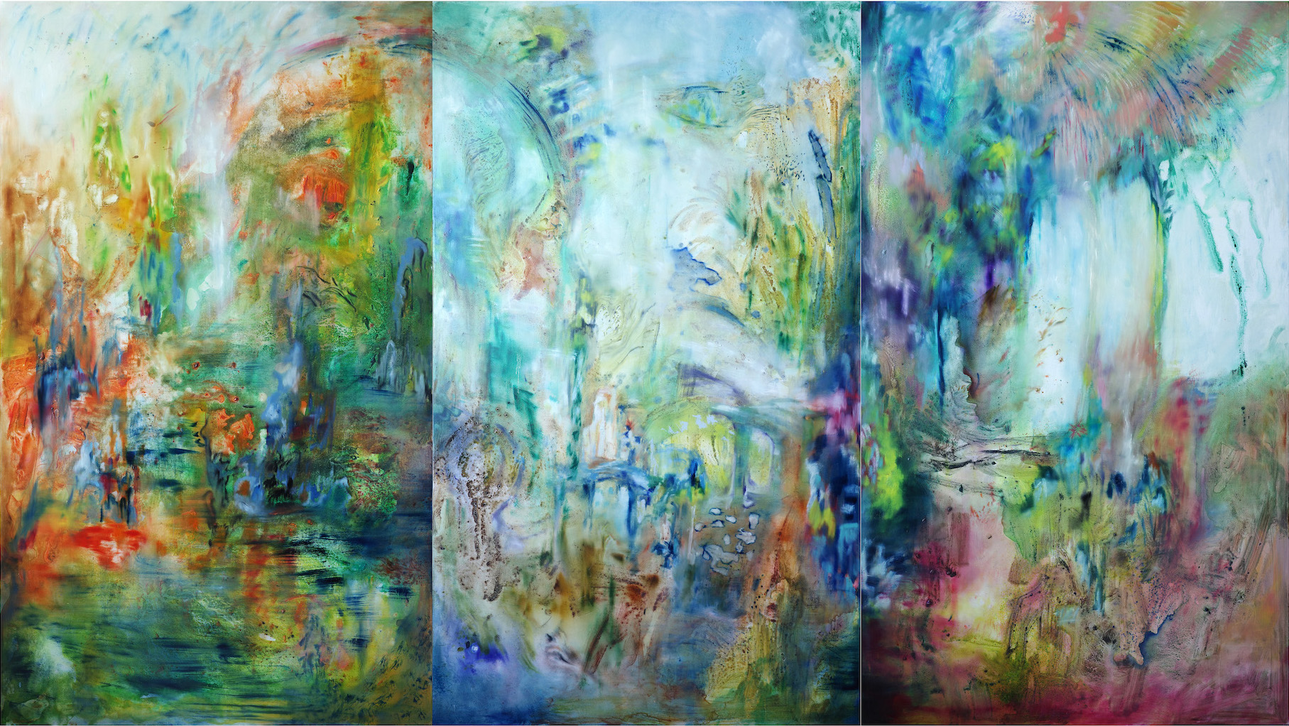
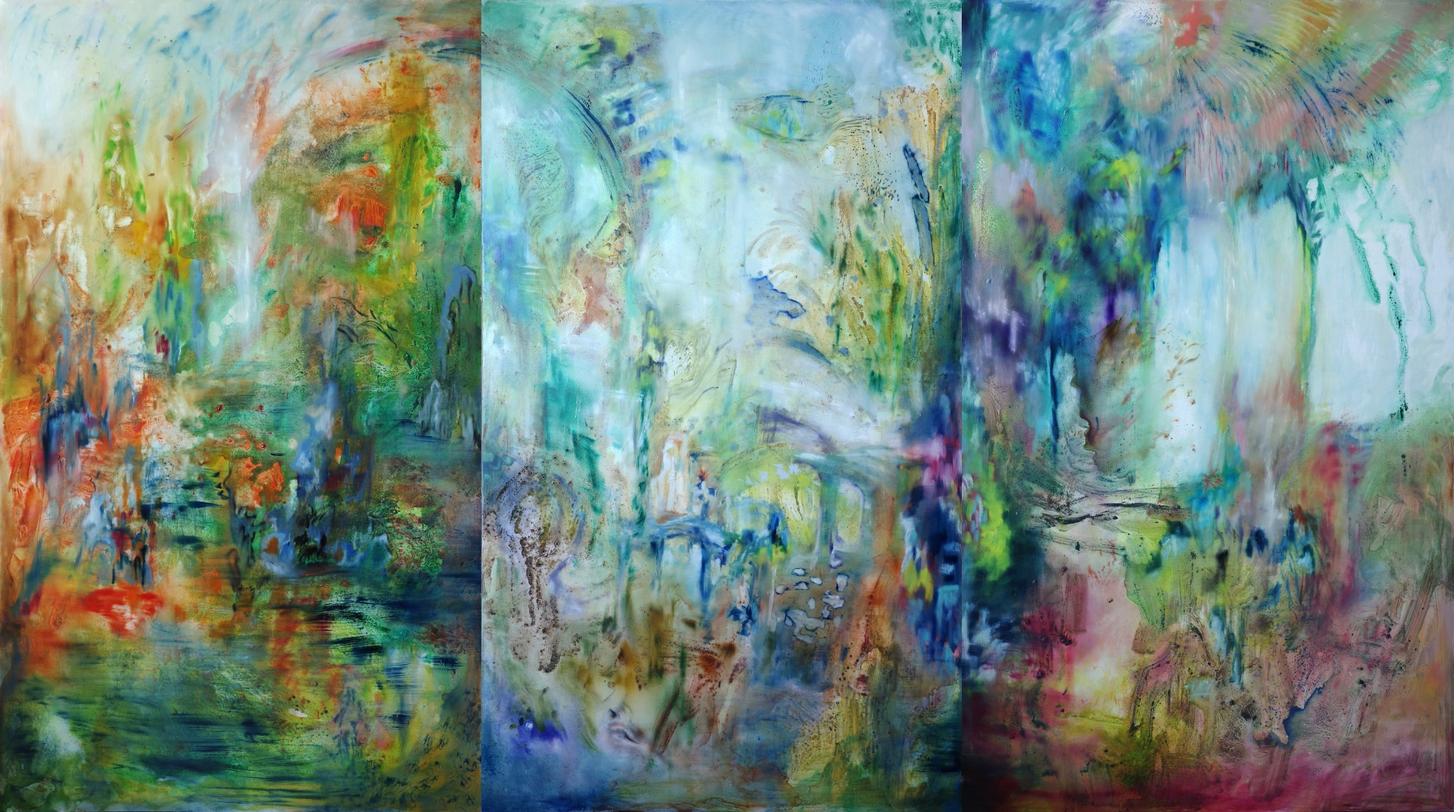
Replace the triptych photograph with the newly supplied image

diff --git a/work.html b/work.html
@@ -1,1 +1,1 @@
-<!doctype html><html lang="en"><head><meta charset="utf-8"><meta name="viewport" content="width=device-width,initial-scale=1"><title data-en="Work — Junhan Shen" data-zh="作品 — 沈隽涵">Work — Junhan Shen</title><link rel="stylesheet" href="style.css?v=20261024-mobile-menu-fix"></head><body><header class="site-header"><a class="name" href="index.html">JUNHAN SHEN</a><button class="menu" type="button" aria-label="Toggle menu" data-label-en="Toggle menu" data-label-zh="切换菜单" data-en="Menu" data-zh="菜单" aria-expanded="false" aria-controls="main-navigation">Menu</button><nav id="main-navigation" aria-label="Main navigation" data-label-en="Main navigation" data-label-zh="主导航"><div class="nav-exhibitions"><button type="button" class="nav-exhibitions-toggle" aria-expanded="false" aria-controls="exhibition-menu" data-en="Exhibitions" data-zh="展览">Exhibitions</button><div class="exhibition-menu" id="exhibition-menu" hidden><a href="untranslated-things.html" data-en="Untranslated Things" data-zh="Untranslated Things（未译之物）">Untranslated Things</a><a href="circuitry.html">Circuitry</a></div></div><a href="biography.html" data-en="Bio &amp; CV" data-zh="简介与简历">Bio &amp; CV</a><a href="contact.html" data-en="Contact" data-zh="联系">Contact</a><span class="lang"><button type="button" data-lang="en">EN</button><i>/</i><button type="button" data-lang="zh">中文</button></span></nav></header><main class="page works-page"><h1 class="page-title" data-en="Works" data-zh="作品">Works</h1><div class="work-grid"><figure class="work-card work-wide work-hero" data-index="0" data-title="A Print In The Sand Indicates The Tiger’s Passage" data-year="2026" data-medium="Acrylic, oil, and pigment powder on canvas" data-size="60 × 108 in" data-src="A Print In The Sand Indicates The Tiger’s Passage..jpg" data-title-zh="沙滩上的印记表明老虎的行进路线" data-medium-zh="布面丙烯、油彩及色粉"><img src="A Print In The Sand Indicates The Tiger’s Passage..jpg" alt="A Print In The Sand Indicates The Tiger’s Passage" width="2000" height="1125" loading="lazy"></figure><figure class="work-card work-portrait" data-index="5" data-title="The Egg, The Bird" data-year="2026" data-medium="Acrylic, oil, and pigment powder on canvas" data-size="60 × 48 in" data-src="The egg, the bird.jpg" data-title-zh="蛋，鸟" data-medium-zh="布面丙烯、油彩及色粉"><img src="The egg, the bird.jpg" alt="The Egg, The Bird" width="1354" height="1677" loading="lazy"></figure><figure class="work-card work-landscape" data-index="1" data-title="Into Thin Air" data-year="2026" data-medium="Acrylic, oil, and color powder on canvas" data-size="60 × 48 in" data-src="Into Thin Air.jpg?v=20261011-photo" data-title-zh="消散于无形" data-medium-zh="布面丙烯、油彩及色粉" data-quote="Our revels now are ended. These our actors,&#10;As I foretold you, were all spirits and&#10;Are melted into air, into thin air;&#10;And like the baseless fabric of this vision,&#10;The cloud-capped towers, the gorgeous palaces,&#10;The solemn temples, the great globe itself,&#10;Yea, all which it inherit, shall dissolve,&#10;And, like this insubstantial pageant faded,&#10;Leave not a rack behind. We are such stuff&#10;As dreams are made on, and our little life&#10;Is rounded with a sleep." data-source="William Shakespeare, The Tempest (Prospero, Act IV, scene 1)" data-quote-zh="我们的欢宴结束了。这些演员，&#10;正如我曾告诉你的，原本都是精灵，&#10;如今都已融入空气，消散于无形；&#10;就像这幻象虚幻的根基，&#10;高耸入云的楼台、壮丽的宫殿、&#10;庄严的庙宇，乃至这广大的地球，&#10;以及它所容纳的一切，都将消散；&#10;如同这无形的盛景渐渐消逝，&#10;连一缕云影也不会留下。我们是&#10;梦所织成的材料，而我们短暂的一生，&#10;终在一场长眠中落幕。" data-source-zh="威廉·莎士比亚，《暴风雨》（普洛斯彼罗，第四幕第一场）"><img src="Into Thin Air.jpg?v=20261011-photo" alt="Into Thin Air" width="2048" height="1667" loading="lazy"></figure><figure class="work-card work-landscape" data-index="3" data-title="Memories Below the Waterline" data-year="2026" data-medium="Acrylic, oil, and color powder on canvas" data-size="48 × 60 in" data-src="Memories Below the Waterline.jpg" data-title-zh="水线之下的记忆" data-medium-zh="布面丙烯、油彩及色粉"><img src="Memories Below the Waterline.jpg" alt="Memories Below the Waterline" width="2000" height="1622" loading="lazy"></figure><figure class="work-card work-landscape" data-index="4" data-title="When We Talk About a Wet Summer" data-year="2026" data-medium="Acrylic, oil, and color powder on canvas" data-size="48 × 60 in" data-src="When We Talk About a Wet Summer.jpg" data-title-zh="当我们谈论潮湿的夏天" data-medium-zh="布面丙烯、油彩及色粉"><img src="When We Talk About a Wet Summer.jpg" alt="When We Talk About a Wet Summer" width="2000" height="1659" loading="lazy"></figure><figure class="work-card work-landscape" data-index="2" data-title="Infinite Distance Within Two Meters" data-year="2026" data-medium="Acrylic, oil, and pigment powder on canvas" data-size="60 × 80 in" data-src="Infinite Distance Within Two Meters.jpg" data-title-zh="两米之内的无限距离" data-medium-zh="布面丙烯、油彩及色粉"><img src="Infinite Distance Within Two Meters.jpg" alt="Infinite Distance Within Two Meters" width="1731" height="1288" loading="lazy"></figure><figure class="work-card work-small" data-index="6" data-title="L’Éponge, L’Orange" data-year="2026" data-medium="Mixed media on wood" data-size="14 × 11 in" data-src="L’Éponge, L’Orange.jpg" data-title-zh="海绵，橙子" data-medium-zh="木板综合材料"><img src="L’Éponge, L’Orange.jpg" alt="L’Éponge, L’Orange" width="1500" height="2000" loading="lazy"></figure></div></main><div class="viewer" id="viewer"><button class="viewer-close" aria-label="Close" data-label-en="Close" data-label-zh="关闭">×</button><button class="viewer-prev" aria-label="Previous" data-label-en="Previous" data-label-zh="上一件作品">‹</button><div class="viewer-info"><p><em id="viewer-title"></em><br><span id="viewer-year"></span><br><span id="viewer-medium"></span><br><span id="viewer-size"></span></p><blockquote id="viewer-quote"></blockquote><p class="viewer-source" id="viewer-source"></p></div><div class="viewer-art"><img id="viewer-image" alt=""></div><button class="viewer-next" aria-label="Next" data-label-en="Next" data-label-zh="下一件作品">›</button></div><script src="site.js?v=20261024-mobile-menu-fix" defer></script><footer class="site-footer"><span data-en="© 2026 Junhan Shen Studio. All rights reserved." data-zh="© 2026 沈隽涵工作室。保留所有权利。">© 2026 Junhan Shen Studio. All rights reserved.</span><span class="credits" data-en="Studio photograph: Yi · Artwork and portrait photography: Li Ke" data-zh="工作室照片：Yi · 作品与肖像摄影：Li Ke">Studio photograph: Yi · Artwork and portrait photography: Li Ke</span></footer></body></html>
+<!doctype html><html lang="en"><head><meta charset="utf-8"><meta name="viewport" content="width=device-width,initial-scale=1"><title data-en="Work — Junhan Shen" data-zh="作品 — 沈隽涵">Work — Junhan Shen</title><link rel="stylesheet" href="style.css?v=20261024-mobile-menu-fix"></head><body><header class="site-header"><a class="name" href="index.html">JUNHAN SHEN</a><button class="menu" type="button" aria-label="Toggle menu" data-label-en="Toggle menu" data-label-zh="切换菜单" data-en="Menu" data-zh="菜单" aria-expanded="false" aria-controls="main-navigation">Menu</button><nav id="main-navigation" aria-label="Main navigation" data-label-en="Main navigation" data-label-zh="主导航"><div class="nav-exhibitions"><button type="button" class="nav-exhibitions-toggle" aria-expanded="false" aria-controls="exhibition-menu" data-en="Exhibitions" data-zh="展览">Exhibitions</button><div class="exhibition-menu" id="exhibition-menu" hidden><a href="untranslated-things.html" data-en="Untranslated Things" data-zh="Untranslated Things（未译之物）">Untranslated Things</a><a href="circuitry.html">Circuitry</a></div></div><a href="biography.html" data-en="Bio &amp; CV" data-zh="简介与简历">Bio &amp; CV</a><a href="contact.html" data-en="Contact" data-zh="联系">Contact</a><span class="lang"><button type="button" data-lang="en">EN</button><i>/</i><button type="button" data-lang="zh">中文</button></span></nav></header><main class="page works-page"><h1 class="page-title" data-en="Works" data-zh="作品">Works</h1><div class="work-grid"><figure class="work-card work-wide work-hero" data-index="0" data-title="A Print In The Sand Indicates The Tiger’s Passage" data-year="2026" data-medium="Acrylic, oil, and pigment powder on canvas" data-size="60 × 108 in" data-src="A Print In The Sand Indicates The Tiger’s Passage..jpg?v=20261024-triptych-update" data-title-zh="沙滩上的印记表明老虎的行进路线" data-medium-zh="布面丙烯、油彩及色粉"><img src="A Print In The Sand Indicates The Tiger’s Passage..jpg?v=20261024-triptych-update" alt="A Print In The Sand Indicates The Tiger’s Passage" width="2047" height="1143" loading="lazy"></figure><figure class="work-card work-portrait" data-index="5" data-title="The Egg, The Bird" data-year="2026" data-medium="Acrylic, oil, and pigment powder on canvas" data-size="60 × 48 in" data-src="The egg, the bird.jpg" data-title-zh="蛋，鸟" data-medium-zh="布面丙烯、油彩及色粉"><img src="The egg, the bird.jpg" alt="The Egg, The Bird" width="1354" height="1677" loading="lazy"></figure><figure class="work-card work-landscape" data-index="1" data-title="Into Thin Air" data-year="2026" data-medium="Acrylic, oil, and color powder on canvas" data-size="60 × 48 in" data-src="Into Thin Air.jpg?v=20261011-photo" data-title-zh="消散于无形" data-medium-zh="布面丙烯、油彩及色粉" data-quote="Our revels now are ended. These our actors,&#10;As I foretold you, were all spirits and&#10;Are melted into air, into thin air;&#10;And like the baseless fabric of this vision,&#10;The cloud-capped towers, the gorgeous palaces,&#10;The solemn temples, the great globe itself,&#10;Yea, all which it inherit, shall dissolve,&#10;And, like this insubstantial pageant faded,&#10;Leave not a rack behind. We are such stuff&#10;As dreams are made on, and our little life&#10;Is rounded with a sleep." data-source="William Shakespeare, The Tempest (Prospero, Act IV, scene 1)" data-quote-zh="我们的欢宴结束了。这些演员，&#10;正如我曾告诉你的，原本都是精灵，&#10;如今都已融入空气，消散于无形；&#10;就像这幻象虚幻的根基，&#10;高耸入云的楼台、壮丽的宫殿、&#10;庄严的庙宇，乃至这广大的地球，&#10;以及它所容纳的一切，都将消散；&#10;如同这无形的盛景渐渐消逝，&#10;连一缕云影也不会留下。我们是&#10;梦所织成的材料，而我们短暂的一生，&#10;终在一场长眠中落幕。" data-source-zh="威廉·莎士比亚，《暴风雨》（普洛斯彼罗，第四幕第一场）"><img src="Into Thin Air.jpg?v=20261011-photo" alt="Into Thin Air" width="2048" height="1667" loading="lazy"></figure><figure class="work-card work-landscape" data-index="3" data-title="Memories Below the Waterline" data-year="2026" data-medium="Acrylic, oil, and color powder on canvas" data-size="48 × 60 in" data-src="Memories Below the Waterline.jpg" data-title-zh="水线之下的记忆" data-medium-zh="布面丙烯、油彩及色粉"><img src="Memories Below the Waterline.jpg" alt="Memories Below the Waterline" width="2000" height="1622" loading="lazy"></figure><figure class="work-card work-landscape" data-index="4" data-title="When We Talk About a Wet Summer" data-year="2026" data-medium="Acrylic, oil, and color powder on canvas" data-size="48 × 60 in" data-src="When We Talk About a Wet Summer.jpg" data-title-zh="当我们谈论潮湿的夏天" data-medium-zh="布面丙烯、油彩及色粉"><img src="When We Talk About a Wet Summer.jpg" alt="When We Talk About a Wet Summer" width="2000" height="1659" loading="lazy"></figure><figure class="work-card work-landscape" data-index="2" data-title="Infinite Distance Within Two Meters" data-year="2026" data-medium="Acrylic, oil, and pigment powder on canvas" data-size="60 × 80 in" data-src="Infinite Distance Within Two Meters.jpg" data-title-zh="两米之内的无限距离" data-medium-zh="布面丙烯、油彩及色粉"><img src="Infinite Distance Within Two Meters.jpg" alt="Infinite Distance Within Two Meters" width="1731" height="1288" loading="lazy"></figure><figure class="work-card work-small" data-index="6" data-title="L’Éponge, L’Orange" data-year="2026" data-medium="Mixed media on wood" data-size="14 × 11 in" data-src="L’Éponge, L’Orange.jpg" data-title-zh="海绵，橙子" data-medium-zh="木板综合材料"><img src="L’Éponge, L’Orange.jpg" alt="L’Éponge, L’Orange" width="1500" height="2000" loading="lazy"></figure></div></main><div class="viewer" id="viewer"><button class="viewer-close" aria-label="Close" data-label-en="Close" data-label-zh="关闭">×</button><button class="viewer-prev" aria-label="Previous" data-label-en="Previous" data-label-zh="上一件作品">‹</button><div class="viewer-info"><p><em id="viewer-title"></em><br><span id="viewer-year"></span><br><span id="viewer-medium"></span><br><span id="viewer-size"></span></p><blockquote id="viewer-quote"></blockquote><p class="viewer-source" id="viewer-source"></p></div><div class="viewer-art"><img id="viewer-image" alt=""></div><button class="viewer-next" aria-label="Next" data-label-en="Next" data-label-zh="下一件作品">›</button></div><script src="site.js?v=20261024-mobile-menu-fix" defer></script><footer class="site-footer"><span data-en="© 2026 Junhan Shen Studio. All rights reserved." data-zh="© 2026 沈隽涵工作室。保留所有权利。">© 2026 Junhan Shen Studio. All rights reserved.</span><span class="credits" data-en="Studio photograph: Yi · Artwork and portrait photography: Li Ke" data-zh="工作室照片：Yi · 作品与肖像摄影：Li Ke">Studio photograph: Yi · Artwork and portrait photography: Li Ke</span></footer></body></html>

diff --git a/untranslated-things.html b/untranslated-things.html
@@ -53,7 +53,7 @@
       </div>
     </figcaption>
   </figure>
-</section><section class="exhibition-works"><h2 data-en="Works in the exhibition" data-zh="展出作品">Works in the exhibition</h2><div class="work-grid" data-first-row-size="3"><figure class="work-card work-wide work-hero" data-index="0" data-title="A Print In The Sand Indicates The Tiger’s Passage" data-year="2026" data-medium="Acrylic, oil, and pigment powder on canvas" data-size="60 × 108 in" data-src="A Print In The Sand Indicates The Tiger’s Passage..jpg" data-quote="a print in the sand indicates the tiger’s passage; a marsh announces a vein of water" data-source="Italo Calvino, Invisible Cities" data-title-zh="沙滩上的印记表明老虎的行进路线" data-medium-zh="布面丙烯、油彩及色粉" data-quote-zh="沙滩上的印记表明老虎的经过；一片沼泽昭示着一道水脉。" data-source-zh="伊塔洛·卡尔维诺，《看不见的城市》"><img src="A Print In The Sand Indicates The Tiger’s Passage..jpg" alt="A Print In The Sand Indicates The Tiger’s Passage" width="2000" height="1125" loading="lazy"></figure><figure class="work-card work-portrait" data-index="1" data-title="The Egg, The Bird" data-year="2026" data-medium="Acrylic, oil, and pigment powder on canvas" data-size="60 × 48 in" data-src="The egg, the bird.jpg" data-quote="The bird fights its way out of the egg. The egg is the world." data-source="Hermann Hesse, Demian" data-title-zh="蛋，鸟" data-medium-zh="布面丙烯、油彩及色粉" data-quote-zh="鸟奋力破壳而出。蛋就是世界。" data-source-zh="赫尔曼·黑塞，《德米安》"><img src="The egg, the bird.jpg" alt="The Egg, The Bird" width="1354" height="1677" loading="lazy"></figure><figure class="work-card work-landscape" data-index="5" data-title="Infinite Distance Within Two Meters" data-year="2026" data-medium="Acrylic, oil, and pigment powder on canvas" data-size="60 × 80 in" data-src="Infinite Distance Within Two Meters.jpg" data-quote="There is grandeur in this view of life, with its several powers, having been originally breathed into a few forms." data-source="Charles Darwin, Origin of Species" data-title-zh="两米之内的无限距离" data-medium-zh="布面丙烯、油彩及色粉" data-quote-zh="在这种生命观中，有一种宏伟：生命的种种力量，最初被赋予了少数几种形态。" data-source-zh="查尔斯·达尔文，《物种起源》"><img src="Infinite Distance Within Two Meters.jpg" alt="Infinite Distance Within Two Meters" width="1731" height="1288" loading="lazy"></figure><figure class="work-card work-landscape" data-index="2" data-title="Into Thin Air" data-year="2026" data-medium="Acrylic, oil, and color powder on canvas" data-size="60 × 48 in" data-src="Into Thin Air.jpg?v=20261011-photo" data-quote="Our revels now are ended. These our actors,&#10;As I foretold you, were all spirits and&#10;Are melted into air, into thin air;&#10;And like the baseless fabric of this vision,&#10;The cloud-capped towers, the gorgeous palaces,&#10;The solemn temples, the great globe itself,&#10;Yea, all which it inherit, shall dissolve,&#10;And, like this insubstantial pageant faded,&#10;Leave not a rack behind. We are such stuff&#10;As dreams are made on, and our little life&#10;Is rounded with a sleep." data-source="William Shakespeare, The Tempest (Prospero, Act IV, scene 1)" data-title-zh="消散于无形" data-medium-zh="布面丙烯、油彩及色粉" data-quote-zh="我们的欢宴结束了。这些演员，&#10;正如我曾告诉你的，原本都是精灵，&#10;如今都已融入空气，消散于无形；&#10;就像这幻象虚幻的根基，&#10;高耸入云的楼台、壮丽的宫殿、&#10;庄严的庙宇，乃至这广大的地球，&#10;以及它所容纳的一切，都将消散；&#10;如同这无形的盛景渐渐消逝，&#10;连一缕云影也不会留下。我们是&#10;梦所织成的材料，而我们短暂的一生，&#10;终在一场长眠中落幕。" data-source-zh="威廉·莎士比亚，《暴风雨》（普洛斯彼罗，第四幕第一场）"><img src="Into Thin Air.jpg?v=20261011-photo" alt="Into Thin Air" width="2048" height="1667" loading="lazy"></figure><figure class="work-card work-landscape" data-index="3" data-title="Memories Below the Waterline" data-year="2026" data-medium="Acrylic, oil, and color powder on canvas" data-size="48 × 60 in" data-src="Memories Below the Waterline.jpg" data-quote="Because it rained so frequently, many of life's important events seemed to happen in the rain." data-source="Li Zishu, Land of Mundanity 《流俗地》" data-title-zh="水线之下的记忆" data-medium-zh="布面丙烯、油彩及色粉" data-quote-zh="因为雨下得如此频繁，人生中许多重要的事，似乎都发生在雨中。" data-source-zh="黎紫书，《流俗地》"><img src="Memories Below the Waterline.jpg" alt="Memories Below the Waterline" width="2000" height="1622" loading="lazy"></figure><figure class="work-card work-landscape" data-index="4" data-title="When We Talk About a Wet Summer" data-year="2026" data-medium="Acrylic, oil, and color powder on canvas" data-size="48 × 60 in" data-src="When We Talk About a Wet Summer.jpg" data-quote="I know a bank where the wild thyme blows, Where oxlips and the nodding violet grows, Quite overcanopied with luscious woodbine, With sweet muskroses, and with eglantine. There sleeps Titania sometime of the night, Lulled in these flowers with dances and delight." data-source="William Shakespeare, A Midsummer Night’s Dream" data-title-zh="当我们谈论潮湿的夏天" data-medium-zh="布面丙烯、油彩及色粉" data-quote-zh="我知道一处野百里香生长的坡岸，那里有报春花和垂首的紫罗兰，丰茂的忍冬在上方织成华盖，甜香的麝香玫瑰与野蔷薇相伴。泰坦妮娅有时在夜里睡在那儿，在繁花、舞蹈和欢愉中安眠。" data-source-zh="威廉·莎士比亚，《仲夏夜之梦》"><img src="When We Talk About a Wet Summer.jpg" alt="When We Talk About a Wet Summer" width="2000" height="1659" loading="lazy"></figure></div></section>
+</section><section class="exhibition-works"><h2 data-en="Works in the exhibition" data-zh="展出作品">Works in the exhibition</h2><div class="work-grid" data-first-row-size="3"><figure class="work-card work-wide work-hero" data-index="0" data-title="A Print In The Sand Indicates The Tiger’s Passage" data-year="2026" data-medium="Acrylic, oil, and pigment powder on canvas" data-size="60 × 108 in" data-src="A Print In The Sand Indicates The Tiger’s Passage..jpg?v=20261024-triptych-update" data-quote="a print in the sand indicates the tiger’s passage; a marsh announces a vein of water" data-source="Italo Calvino, Invisible Cities" data-title-zh="沙滩上的印记表明老虎的行进路线" data-medium-zh="布面丙烯、油彩及色粉" data-quote-zh="沙滩上的印记表明老虎的经过；一片沼泽昭示着一道水脉。" data-source-zh="伊塔洛·卡尔维诺，《看不见的城市》"><img src="A Print In The Sand Indicates The Tiger’s Passage..jpg?v=20261024-triptych-update" alt="A Print In The Sand Indicates The Tiger’s Passage" width="2047" height="1143" loading="lazy"></figure><figure class="work-card work-portrait" data-index="1" data-title="The Egg, The Bird" data-year="2026" data-medium="Acrylic, oil, and pigment powder on canvas" data-size="60 × 48 in" data-src="The egg, the bird.jpg" data-quote="The bird fights its way out of the egg. The egg is the world." data-source="Hermann Hesse, Demian" data-title-zh="蛋，鸟" data-medium-zh="布面丙烯、油彩及色粉" data-quote-zh="鸟奋力破壳而出。蛋就是世界。" data-source-zh="赫尔曼·黑塞，《德米安》"><img src="The egg, the bird.jpg" alt="The Egg, The Bird" width="1354" height="1677" loading="lazy"></figure><figure class="work-card work-landscape" data-index="5" data-title="Infinite Distance Within Two Meters" data-year="2026" data-medium="Acrylic, oil, and pigment powder on canvas" data-size="60 × 80 in" data-src="Infinite Distance Within Two Meters.jpg" data-quote="There is grandeur in this view of life, with its several powers, having been originally breathed into a few forms." data-source="Charles Darwin, Origin of Species" data-title-zh="两米之内的无限距离" data-medium-zh="布面丙烯、油彩及色粉" data-quote-zh="在这种生命观中，有一种宏伟：生命的种种力量，最初被赋予了少数几种形态。" data-source-zh="查尔斯·达尔文，《物种起源》"><img src="Infinite Distance Within Two Meters.jpg" alt="Infinite Distance Within Two Meters" width="1731" height="1288" loading="lazy"></figure><figure class="work-card work-landscape" data-index="2" data-title="Into Thin Air" data-year="2026" data-medium="Acrylic, oil, and color powder on canvas" data-size="60 × 48 in" data-src="Into Thin Air.jpg?v=20261011-photo" data-quote="Our revels now are ended. These our actors,&#10;As I foretold you, were all spirits and&#10;Are melted into air, into thin air;&#10;And like the baseless fabric of this vision,&#10;The cloud-capped towers, the gorgeous palaces,&#10;The solemn temples, the great globe itself,&#10;Yea, all which it inherit, shall dissolve,&#10;And, like this insubstantial pageant faded,&#10;Leave not a rack behind. We are such stuff&#10;As dreams are made on, and our little life&#10;Is rounded with a sleep." data-source="William Shakespeare, The Tempest (Prospero, Act IV, scene 1)" data-title-zh="消散于无形" data-medium-zh="布面丙烯、油彩及色粉" data-quote-zh="我们的欢宴结束了。这些演员，&#10;正如我曾告诉你的，原本都是精灵，&#10;如今都已融入空气，消散于无形；&#10;就像这幻象虚幻的根基，&#10;高耸入云的楼台、壮丽的宫殿、&#10;庄严的庙宇，乃至这广大的地球，&#10;以及它所容纳的一切，都将消散；&#10;如同这无形的盛景渐渐消逝，&#10;连一缕云影也不会留下。我们是&#10;梦所织成的材料，而我们短暂的一生，&#10;终在一场长眠中落幕。" data-source-zh="威廉·莎士比亚，《暴风雨》（普洛斯彼罗，第四幕第一场）"><img src="Into Thin Air.jpg?v=20261011-photo" alt="Into Thin Air" width="2048" height="1667" loading="lazy"></figure><figure class="work-card work-landscape" data-index="3" data-title="Memories Below the Waterline" data-year="2026" data-medium="Acrylic, oil, and color powder on canvas" data-size="48 × 60 in" data-src="Memories Below the Waterline.jpg" data-quote="Because it rained so frequently, many of life's important events seemed to happen in the rain." data-source="Li Zishu, Land of Mundanity 《流俗地》" data-title-zh="水线之下的记忆" data-medium-zh="布面丙烯、油彩及色粉" data-quote-zh="因为雨下得如此频繁，人生中许多重要的事，似乎都发生在雨中。" data-source-zh="黎紫书，《流俗地》"><img src="Memories Below the Waterline.jpg" alt="Memories Below the Waterline" width="2000" height="1622" loading="lazy"></figure><figure class="work-card work-landscape" data-index="4" data-title="When We Talk About a Wet Summer" data-year="2026" data-medium="Acrylic, oil, and color powder on canvas" data-size="48 × 60 in" data-src="When We Talk About a Wet Summer.jpg" data-quote="I know a bank where the wild thyme blows, Where oxlips and the nodding violet grows, Quite overcanopied with luscious woodbine, With sweet muskroses, and with eglantine. There sleeps Titania sometime of the night, Lulled in these flowers with dances and delight." data-source="William Shakespeare, A Midsummer Night’s Dream" data-title-zh="当我们谈论潮湿的夏天" data-medium-zh="布面丙烯、油彩及色粉" data-quote-zh="我知道一处野百里香生长的坡岸，那里有报春花和垂首的紫罗兰，丰茂的忍冬在上方织成华盖，甜香的麝香玫瑰与野蔷薇相伴。泰坦妮娅有时在夜里睡在那儿，在繁花、舞蹈和欢愉中安眠。" data-source-zh="威廉·莎士比亚，《仲夏夜之梦》"><img src="When We Talk About a Wet Summer.jpg" alt="When We Talk About a Wet Summer" width="2000" height="1659" loading="lazy"></figure></div></section>
 <section class="exhibition-process" id="process" aria-labelledby="process-heading">
 <h2 id="process-heading" data-en="Process fragments" data-zh="创作过程片段">Process fragments</h2>
 <figure class="process-figure">
